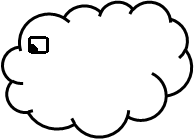
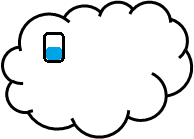
AggiuntePecore

Changed region(s): [[0.1237, 0.2302, 0.3402, 0.4604]]

diff --git a/SpotASheepWindows/SpotASheepWindows/Game1.cs b/SpotASheepWindows/SpotASheepWindows/Game1.cs
@@ -72,7 +72,7 @@ namespace SpotASheepWindows
     {
       // TODO: Add your initialization logic here
       Menu.InitializeMenu(Content);
-      pecorelle = new Texture2D[3];
+      pecorelle = new Texture2D[5];
       rand = new Random();
       _oldPanel = Mouse.GetState();
 
@@ -96,6 +96,8 @@ namespace SpotASheepWindows
       pecorelle[0] = Content.Load<Texture2D>("pecora1");
       pecorelle[1] = Content.Load<Texture2D>("pecora2");
       pecorelle[2] = Content.Load<Texture2D>("pecora3");
+      pecorelle[3] = Content.Load<Texture2D>("pecora4");
+      pecorelle[4] = Content.Load<Texture2D>("pecora5");
       boom = Content.Load<Texture2D>("Explosion");
       heart = Content.Load<Texture2D>("heart");
       se = Content.Load<SoundEffect>("Bomb");
@@ -138,7 +140,7 @@ namespace SpotASheepWindows
           killaPecora(gameTime);
 
           if (listaPecorelle.Count < 6)
-            listaPecorelle.Add(new NuvolaGen(pecorelle[rand.Next(0, 3)], rand.Next(0, graphics.GraphicsDevice.DisplayMode.Height / 48) * 45, rand.Next(graphics.GraphicsDevice.DisplayMode.Width - 194, graphics.GraphicsDevice.DisplayMode.Width), (float)(rand.NextDouble() * 5) + 1.0f + (float)punti / 100, true));
+            listaPecorelle.Add(new NuvolaGen(pecorelle[rand.Next(0, 5)], rand.Next(0, graphics.GraphicsDevice.DisplayMode.Height / 48) * 45, rand.Next(graphics.GraphicsDevice.DisplayMode.Width - 194, graphics.GraphicsDevice.DisplayMode.Width), (float)(rand.NextDouble() * 5) + 1.0f + (float)punti / 100, true));
 
           if (listaNuvole.Count < 15)
             listaNuvole.Add(new NuvolaGen(nuvola, rand.Next(0, graphics.GraphicsDevice.DisplayMode.Height / 48) * 45, rand.Next(graphics.GraphicsDevice.DisplayMode.Width - 194, graphics.GraphicsDevice.DisplayMode.Width), (float)(rand.NextDouble() * 3) + 1f + (float)punti / 100));

diff --git a/SpotASheepWindows/SpotASheepWindows/Menu.cs b/SpotASheepWindows/SpotASheepWindows/Menu.cs
@@ -13,7 +13,7 @@ namespace SpotASheepWindows
   {   
     static Texture2D _NewGame, _HighScore, _Title;
     static bool _IsMenuShown;
-
+    static DisplayMode displayMode;
     static Rectangle[] pulsanti = new Rectangle[3];
 
     public static bool IsMenuShown
@@ -23,12 +23,13 @@ namespace SpotASheepWindows
     }
     public static void InitializeMenu(ContentManager Content)
     {
+      displayMode = GraphicsAdapter.DefaultAdapter.CurrentDisplayMode;
       _Title = Content.Load<Texture2D>("Title");
       _NewGame = Content.Load<Texture2D>("NewGame");
       _HighScore = Content.Load<Texture2D>("HighScores");
-      pulsanti[0] = new Rectangle(400 - _Title.Width / 2, 20, 389, 167);
-      pulsanti[1] = new Rectangle(400 - _NewGame.Width / 2, 220, 371, 66);
-      pulsanti[2] = new Rectangle(400 - _HighScore.Width / 2, 320, 371, 66);
+      pulsanti[0] = new Rectangle((displayMode.Width - _Title.Width) / 2, 20, 389, 167);
+      pulsanti[1] = new Rectangle((displayMode.Width - _NewGame.Width) / 2, 220, 371, 66);
+      pulsanti[2] = new Rectangle((displayMode.Width - _HighScore.Width) / 2, 320, 371, 66);
       _IsMenuShown = true;
     }
     
